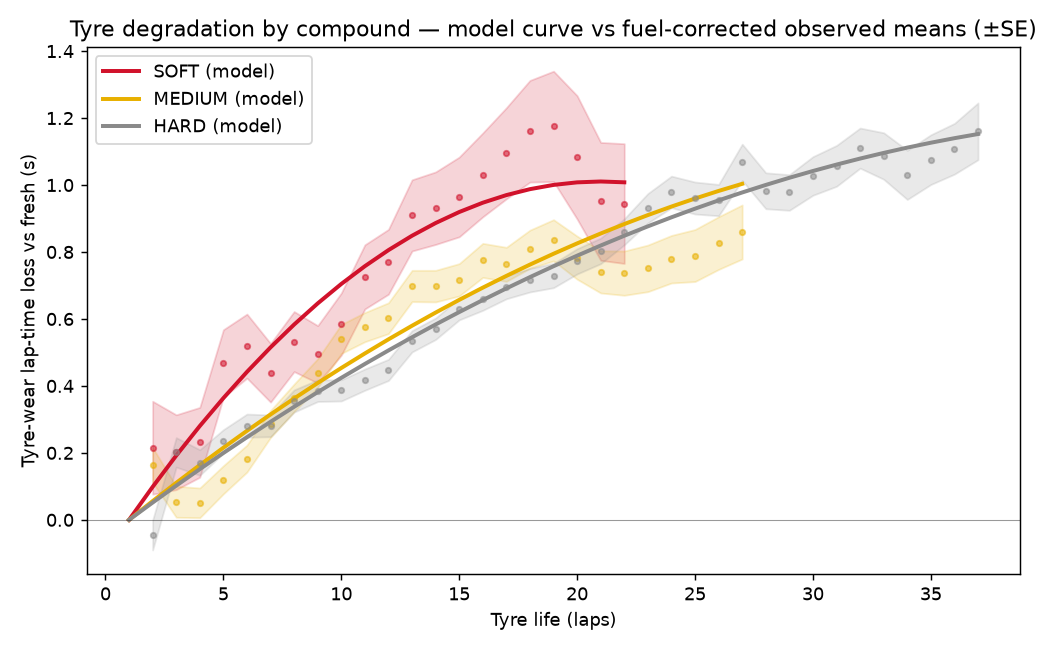
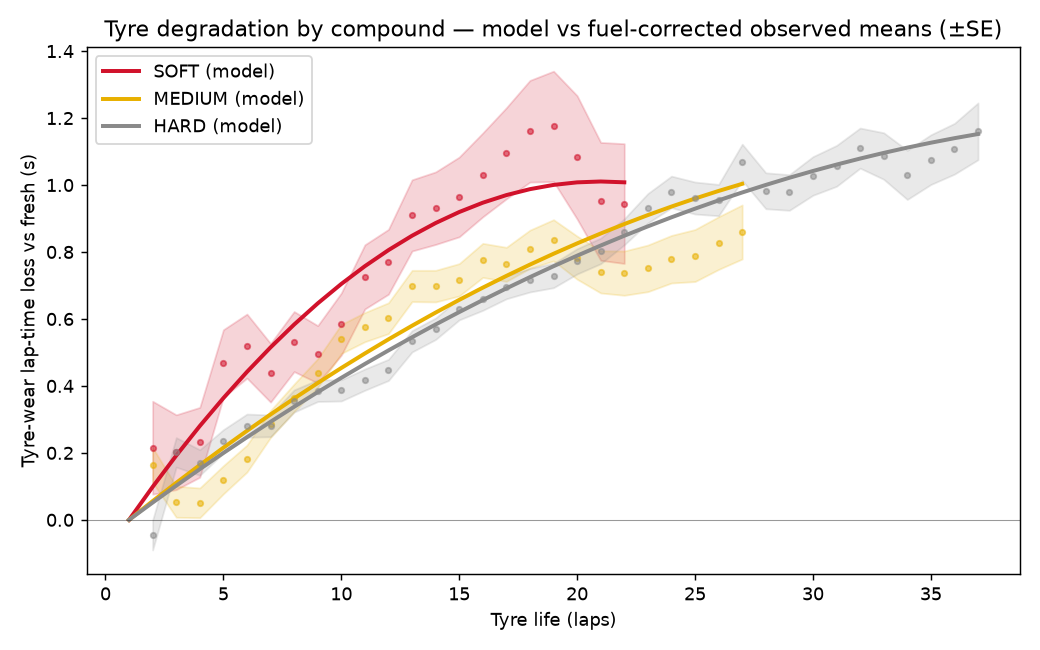
Pit-window figure: plot differences vs the best lap with Monte-Carlo error
simulate_plan now reports the Monte-Carlo standard error of its mean. The figure shows
each one-stop lap's expected time minus the best lap with 95% error bars, shades pit
laps with no legal two-compound plan instead of drawing through them, and drops the
undercut claim from its title. The degradation figure is regenerated so its title
matches the code.

Changed region(s): [[0.0615, 0.0308, 1.0, 0.0615]]

diff --git a/scripts/make_figures.py b/scripts/make_figures.py
@@ -65,45 +65,62 @@ def fig_degradation(clean, model):
 
 
 def fig_pit_window(clean, raw, model):
-    """Expected race time vs 1-stop pit lap for one race, with P5-P95 band."""
+    """One-stop pit-lap sweep for one race: expected race time relative to the best
+    one-stop lap, with 95% Monte-Carlo error bars, plus the P5-P95 outcome band.
+    Pit laps with no feasible compound plan are marked, not interpolated across."""
     from pitwall.simulate import enumerate_pit_plans, simulate_plan
     resid = residual_sigma(model, clean)
     caps = stint_caps(clean)
-    circuit = "Bahrain Grand Prix"
+    circuit, season, n_sims = "Bahrain Grand Prix", 2023, 2000
     total = int(raw[raw["race"] == circuit]["LapNumber"].max())
-    env = build_env(circuit, 2023, total, model, clean, raw, resid, caps)
+    env = build_env(circuit, season, total, model, clean, raw, resid, caps)
     rng = np.random.default_rng(0)
-    ones = []
+    laps, sims = [], []
     for pl in enumerate_pit_plans(total):
-        if len(pl) != 1:
-            continue
-        s = simulate_plan(env, pl, 2000, rng)
-        if s:
-            ones.append((pl[0], s["mean"], s["p5"], s["p95"]))
-    ones.sort()
-    x = np.array([o[0] for o in ones])
-    mean = np.array([o[1] for o in ones])
-    p5 = np.array([o[2] for o in ones])
-    p95 = np.array([o[3] for o in ones])
-    opt = int(x[int(np.argmin(mean))])
+        if len(pl) == 1:
+            laps.append(pl[0])
+            sims.append(simulate_plan(env, pl, n_sims, rng))
+    x = np.array(laps)
+    ok = np.array([s is not None for s in sims])
 
-    fig, (a1, a2) = plt.subplots(1, 2, figsize=(12, 5))
-    # left: expected time, zoomed to show the (shallow) optimum
-    a1.plot(x, mean, "-o", ms=4, color="#1f77b4")
-    a1.axvline(opt, ls="--", color="#d1122b", label=f"pace optimum: lap {opt}")
-    a1.set_ylim(mean.min() - 1.5, mean.min() + 8)
+    def col(key):
+        return np.array([s[key] if s else np.nan for s in sims])
+
+    mean, se, p5, p95 = col("mean"), col("mc_se"), col("p5"), col("p95")
+    best = int(np.nanargmin(mean))
+    diff = mean - mean[best]
+    diff_err = 1.96 * np.sqrt(se ** 2 + se[best] ** 2)
+    diff_err[best] = 0.0  # the reference plan itself
+    step = np.diff(x).min()
+
+    fig, (a1, a2) = plt.subplots(1, 2, figsize=(12, 5.8))
+    for ax in (a1, a2):
+        for i, xi in enumerate(x[~ok]):
+            ax.axvspan(xi - step / 2, xi + step / 2, color="#bbbbbb", alpha=0.35, lw=0,
+                       label="infeasible: no legal two-compound plan" if i == 0 else None)
+    a1.axhline(0, color="k", lw=0.6, alpha=0.4)
+    a1.errorbar(x[ok], diff[ok], yerr=diff_err[ok], fmt="o", ms=4, capsize=2,
+                color="#1f77b4", label="vs best lap (±95% Monte-Carlo error)")
+    a1.plot(x[best], 0, "o", ms=9, mfc="none", mec="#d1122b", mew=1.8,
+            label=f"lowest expected time: lap {x[best]}")
     a1.set_xlabel("One-stop pit lap")
-    a1.set_ylabel("Expected race time (s)")
-    a1.set_title("Expected time is shallow (~few s):\nreal timing is set by the undercut")
-    a1.legend()
-    # right: full P5-P95 outcome spread (safety-car driven)
-    a2.fill_between(x, p5, p95, alpha=0.2, color="#1f77b4", label="P5–P95 outcomes")
-    a2.plot(x, mean, "-o", ms=4, color="#1f77b4", label="expected")
+    a1.set_ylabel("Expected race time minus best one-stop lap (s)")
+    a1.set_title("Expected race time relative to the best one-stop lap")
+    a1.legend(fontsize=8, loc="upper center", bbox_to_anchor=(0.5, -0.13), ncol=2)
+
+    for seg in np.split(np.arange(len(x)), np.flatnonzero(~ok)):
+        seg = seg[ok[seg]]
+        if len(seg):
+            a2.fill_between(x[seg], p5[seg], p95[seg], alpha=0.25, color="#1f77b4", lw=0)
+            a2.plot(x[seg], mean[seg], "-o", ms=3, color="#1f77b4")
+    a2.fill_between([], [], [], alpha=0.25, color="#1f77b4", label="P5–P95 outcomes")
+    a2.plot([], [], "-o", ms=3, color="#1f77b4", label="expected")
     a2.set_xlabel("One-stop pit lap")
     a2.set_ylabel("Simulated race time (s)")
-    a2.set_title("Outcome spread is dominated by\nsafety-car risk (±~75 s)")
-    a2.legend()
-    fig.suptitle(f"Pit-window sensitivity — {circuit} ({total} laps, 1-stop)")
+    a2.set_title("Spread of simulated outcomes per pit lap")
+    a2.legend(fontsize=8, loc="upper center", bbox_to_anchor=(0.5, -0.13), ncol=2)
+    fig.suptitle(f"One-stop pit-lap sweep — {season} {circuit} ({total} laps, "
+                 f"{n_sims:,} simulations per lap)")
     fig.tight_layout()
     fig.savefig(FIGURES_DIR / "pit_window_sensitivity.png", dpi=130)
     plt.close(fig)

diff --git a/tests/test_simulate.py b/tests/test_simulate.py
@@ -54,6 +54,14 @@ def test_percentile_band_is_ordered():
     assert best["p5"] < best["mean"] < best["p95"]
 
 
+def test_monte_carlo_error_matches_lap_noise():
+    """With only lap-time noise, the error of the mean is sigma*sqrt(laps)/sqrt(n)."""
+    env = _env(_fit(slope=0.05), pit_loss=22.0, resid_sigma=0.6)
+    best = best_plan(env, n=4000)["best"]
+    expected = 0.6 * np.sqrt(40) / np.sqrt(4000)
+    assert best["mc_se"] == pytest.approx(expected, rel=0.1)
+
+
 def test_best_plan_raises_clear_error_when_no_plan_is_feasible():
     """Stint caps shorter than any legal stint leave no plan; say so, not IndexError."""
     env = _env(_fit(slope=0.05), pit_loss=22.0, caps={"SOFT": 5, "MEDIUM": 5, "HARD": 5})

diff --git a/src/pitwall/simulate.py b/src/pitwall/simulate.py
@@ -188,6 +188,7 @@ def simulate_plan(env: RaceEnv, pit_laps: list[int], n: int,
         "mean": float(times.mean()),
         "p5": float(np.percentile(times, 5)),
         "p95": float(np.percentile(times, 95)),
+        "mc_se": float(times.std(ddof=1) / np.sqrt(n)),  # Monte-Carlo error of "mean"
     }
 
 
